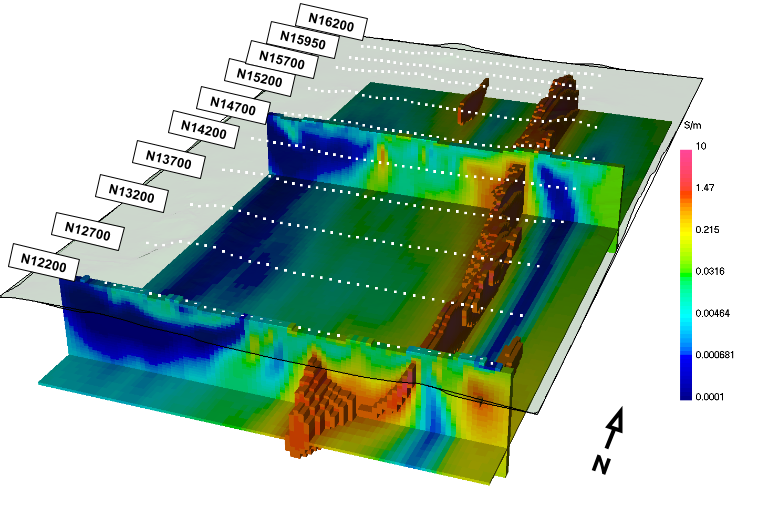
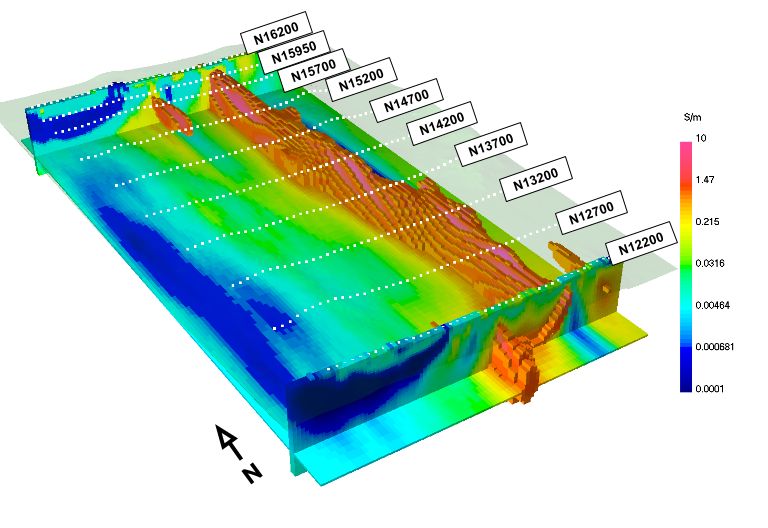
Add figure for interpretation. Move Youtube videos to center page

diff --git a/content/case_histories/mt_isa/interpretation.rst b/content/case_histories/mt_isa/interpretation.rst
@@ -5,13 +5,19 @@ Interpretation
 
 In this section, inversion results are interpreted to bring the final recovered physical property models back into the realm of geology. :numref:`MtIsa_3D_Model_Plan` shows a plan-view slice of the recovered conductivity model (left) and chargeability model (right). The Breakaway shale unit has very large conductivities (higher than expected); the Novit Horizon appears as a low to moderate conductor. The Moondarra Siltsone breaks around line N14700, most likely due to faulting. The 3D inversion shows more detail than the 2D inversions and attempts to connect features from line to line. Yet, the results confirm the presence of a "2D" geology in general.
 
+.. figure:: images/MtIsa_3D_Model_Interp.png
+    :align: center
+    :figwidth: 90%
+    :name: MtIsa_3D_Model_Interp
+
+    : Perspective view of the recovered 3D conductivity (left) and chargeability (right) models. Interpretated geological units (black) are shown for reference.
 
 .. figure:: images/MtIsa_3D_Model_Plan.png
     :align: center
     :figwidth: 90%
     :name: MtIsa_3D_Model_Plan
 
-    : Sections through the recovered 3D conductivity (left) and chargeability (right) models. Interpretated geological units (white) are shown for reference.
+    : Sections through the recovered 3D conductivity (left) and chargeability (right) models. Interpretated geological units (black) are shown for reference.
 
 
 

diff --git a/content/case_histories/mt_isa/processing.rst b/content/case_histories/mt_isa/processing.rst
@@ -84,7 +84,7 @@ Sections through the recovered 3D conductivity model are presented in :numref:`M
 
 .. raw:: html
 
-    <div style="position: relative; padding-bottom: 2%; height: 0; overflow: hidden; max-width: 100%; height: auto;"><iframe width="560" height="315" src="https://www.youtube.com/embed/9jzMy0L8txQ?rel=0" frameborder="0" allowfullscreen></iframe></div>
+    <div style="margin: 0px auto; text-align: center;"><iframe width="560" height="315" src="https://www.youtube.com/embed/9jzMy0L8txQ?rel=0" frameborder="0" allowfullscreen></iframe></div>
 
 Animation of the recovered 3-D conductivity model.
 
@@ -156,7 +156,7 @@ In preparation for the 3D inversion of the IP data, locations were geo-reference
 
 .. raw:: html
 
-    <div style="position: relative; padding-bottom: 2%; height: 0; overflow: hidden; max-width: 100%; height: auto;"><iframe width="560" height="315" src="https://www.youtube.com/embed/g3tfH_IGNcw?rel=0" frameborder="0" allowfullscreen></iframe></div>
+    <div style="margin: 0px auto; text-align: center;"><iframe width="560" height="315" src="https://www.youtube.com/embed/g3tfH_IGNcw?rel=0" frameborder="0" allowfullscreen></iframe></div>
 
 Animation of the recovered 3-D chargability model.
 
